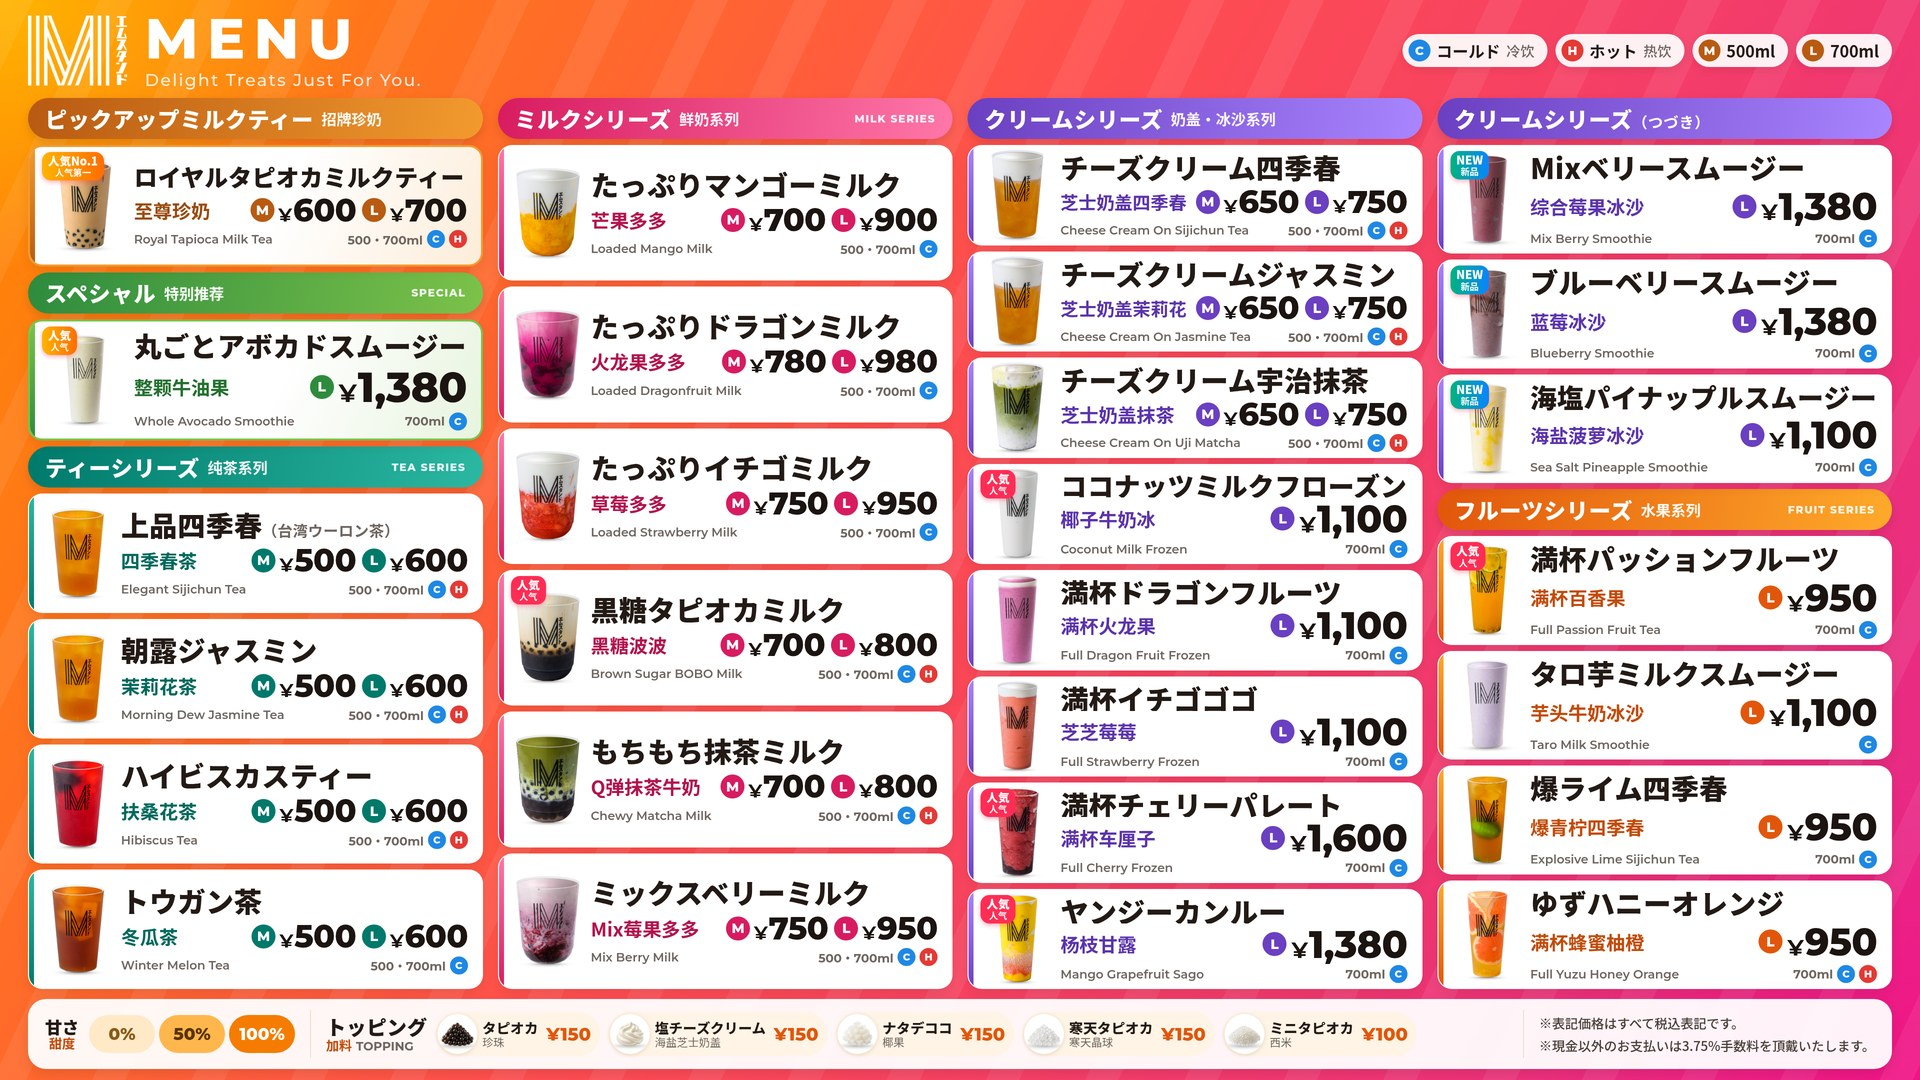
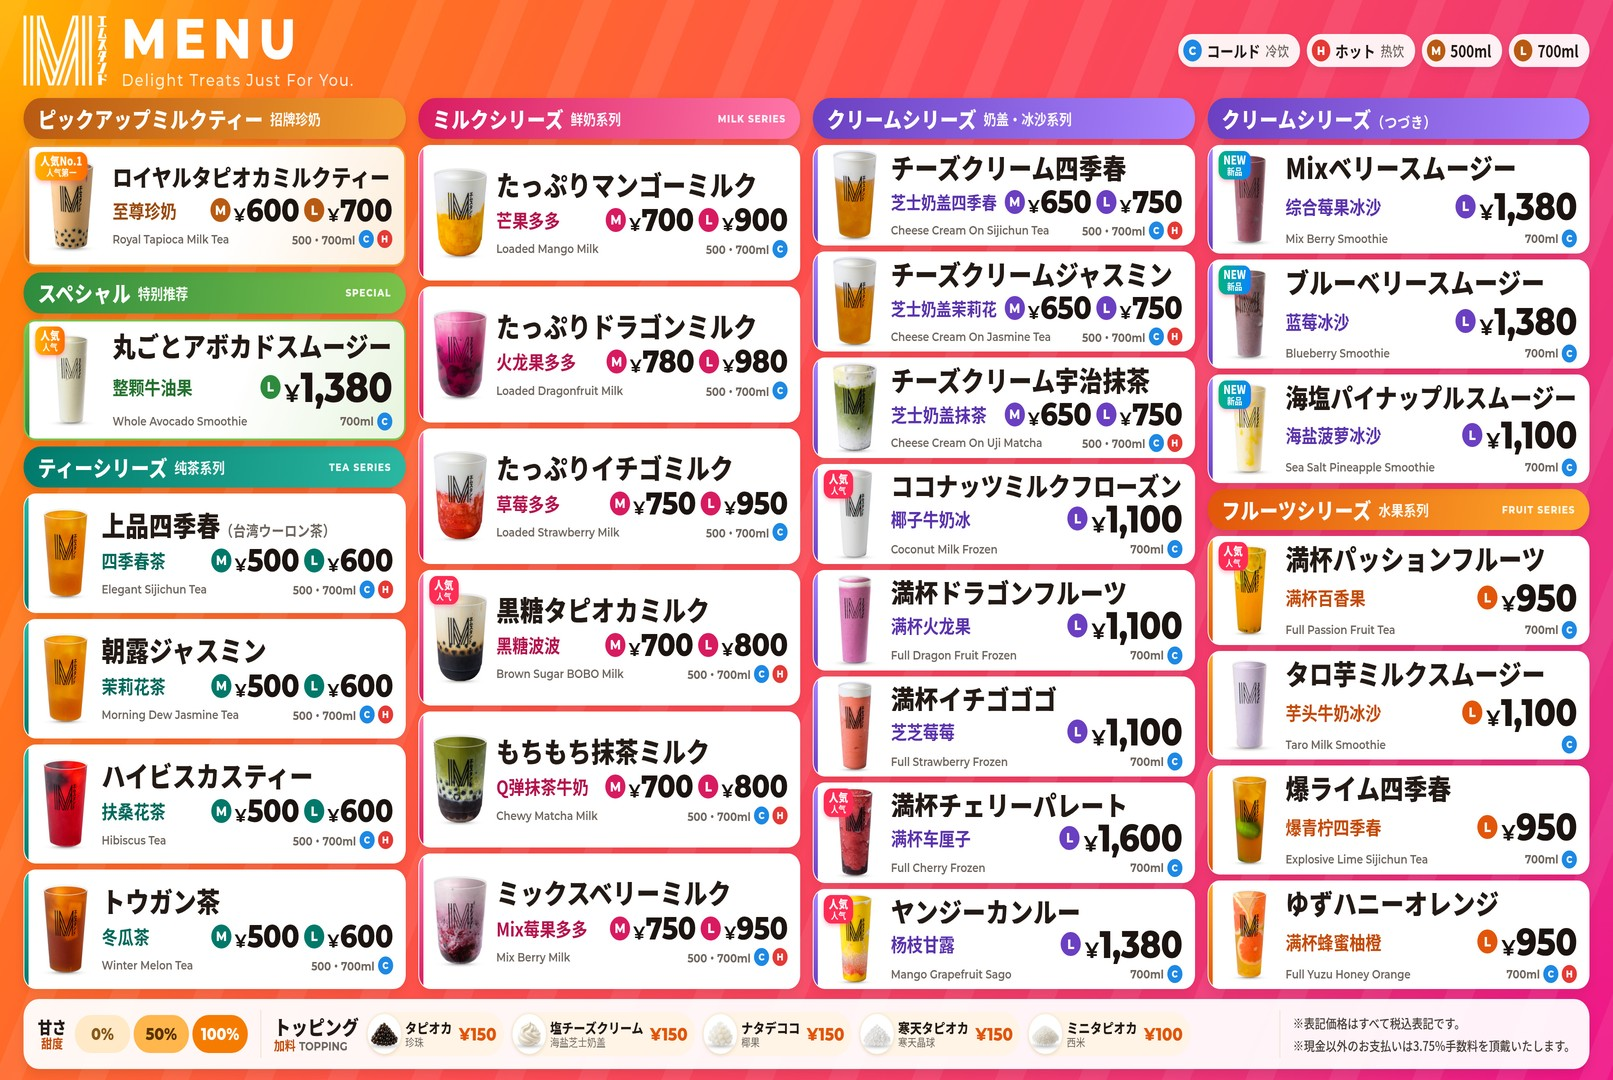
Screen: full-height menu, narrow queue strip

diff --git a/public/screen.html b/public/screen.html
@@ -1,23 +1,23 @@
 <!doctype html><html lang="ja"><head><meta charset="utf-8"><meta name="viewport" content="width=device-width,initial-scale=1">
 <title>M Stand Screen</title>
 <style>
-html,body{margin:0;height:100%;overflow:hidden;font-family:-apple-system,"Hiragino Sans","Noto Sans CJK JP","PingFang SC",sans-serif;background:#fff6ee}
+html,body{margin:0;height:100%;overflow:hidden;font-family:-apple-system,"Hiragino Sans","Noto Sans CJK JP","PingFang SC",sans-serif;background:linear-gradient(135deg,#ff9a3d,#ff5c8a)}
 .wrap{display:flex;height:100vh;width:100vw}
-.menu{flex:0 0 65%;display:flex;align-items:center;justify-content:center;background:#fff6ee}
-.menu img{width:100%;height:100%;object-fit:contain}
-.q{flex:1;background:linear-gradient(160deg,#ff8a3d,#ff5c8a);color:#fff;display:flex;flex-direction:column;align-items:center;padding:3vh 1.5vw;box-sizing:border-box}
-.t{font-size:2.6vw;font-weight:800;text-align:center;line-height:1.25}.t small{display:block;font-size:1.6vw;opacity:.9}
-.n{font-size:15vw;font-weight:900;line-height:1;margin:2vh 0;text-shadow:0 .5vw 1.5vw #0003}
+.menu{flex:0 0 84%;height:100vh}
+.menu img{width:100%;height:100%;object-fit:fill;display:block}
+.q{flex:1;background:linear-gradient(170deg,#ff7a3d,#ff4f86);color:#fff;display:flex;flex-direction:column;align-items:center;padding:3vh .6vw;box-sizing:border-box;box-shadow:-.4vw 0 1vw #0002}
+.t{font-size:1.5vw;font-weight:800;text-align:center;line-height:1.2}.t small{display:block;font-size:1vw;opacity:.9}
+.n{font-size:8vw;font-weight:900;line-height:1;margin:2vh 0 1vh;text-shadow:0 .4vw 1vw #0003}
 .n.flash{animation:f .6s 5}@keyframes f{50%{opacity:.25;transform:scale(1.06)}}
-.sub{font-size:1.5vw;font-weight:700;opacity:.95;text-align:center}
-.hist{margin-top:auto;width:100%;background:#fff3;border-radius:1.2vw;padding:2vh 1vw;box-sizing:border-box;text-align:center}
-.hist h2{margin:0 0 1vh;font-size:1.5vw}.hist .l{display:flex;flex-wrap:wrap;justify-content:center;gap:.6vw 1.6vw}
-.hist .l div{font-size:3.6vw;font-weight:800;opacity:.9}
-.brand{font-size:1.3vw;font-weight:800;margin-top:1.5vh;opacity:.9}
-.off{position:fixed;right:1vw;top:1vh;width:1vw;height:1vw;border-radius:50%;background:#f33;display:none}
+.sub{font-size:.95vw;font-weight:700;text-align:center}
+.hist{margin-top:auto;width:100%;background:#fff3;border-radius:.8vw;padding:1.2vh .4vw;box-sizing:border-box;text-align:center}
+.hist h2{margin:0 0 .8vh;font-size:.95vw}.hist .l{display:flex;flex-wrap:wrap;justify-content:center;gap:.3vw .9vw}
+.hist .l div{font-size:2.2vw;font-weight:800;opacity:.9}
+.brand{font-size:.9vw;font-weight:800;margin-top:1.2vh;opacity:.9}
+.off{position:fixed;right:.5vw;top:.5vh;width:.8vw;height:.8vw;border-radius:50%;background:#f33;display:none}
 </style></head><body>
-<div class="wrap"><div class="menu"><img src="/menu.jpg" alt="menu"></div>
-<div class="q"><div class="t">お呼び出し番号<small>请取餐 · Now Serving</small></div>
+<div class="wrap"><div class="menu"><img src="/menu.jpg?v=4" alt="menu"></div>
+<div class="q"><div class="t">お呼び出し番号<small>请取餐</small></div>
 <div class="n" id="n">-</div><div class="sub">番のお客様、お待たせしました</div>
 <div class="hist"><h2>最近の番号 / 最近叫号</h2><div class="l" id="hist"></div></div>
 <div class="brand">M Stand 池袋</div></div></div><div class="off" id="off"></div>
